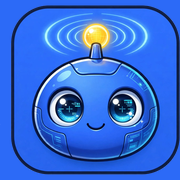
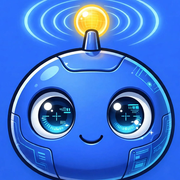
Ícone preenchendo todo o quadrado (sem margem branca) + versão maskable
Claude-Session: https://claude.ai/code/session_01LEoBFNrn3DzGSZ4UvbsDZL

diff --git a/sw.js b/sw.js
@@ -1,6 +1,6 @@
 /* Sempre busca a versão mais nova na internet e só usa a cópia guardada quando está sem internet. */
-const C='radar-v17';
-self.addEventListener('install',e=>{self.skipWaiting();e.waitUntil(caches.open(C).then(c=>c.addAll(['./','index.html','manifest.webmanifest','icon-192.png','mascote.png','mascote-bravo.png','mascote-ok.png'])))});
+const C='radar-v18';
+self.addEventListener('install',e=>{self.skipWaiting();e.waitUntil(caches.open(C).then(c=>c.addAll(['./','index.html','manifest.webmanifest','icon-192.png','icon-maskable-512.png','mascote.png','mascote-bravo.png','mascote-ok.png'])))});
 self.addEventListener('activate',e=>e.waitUntil(caches.keys().then(ks=>Promise.all(ks.filter(k=>k!==C).map(k=>caches.delete(k)))).then(()=>self.clients.claim())));
 self.addEventListener('fetch',e=>{
  if(e.request.method!=='GET'||!e.request.url.startsWith(self.location.origin))return;
